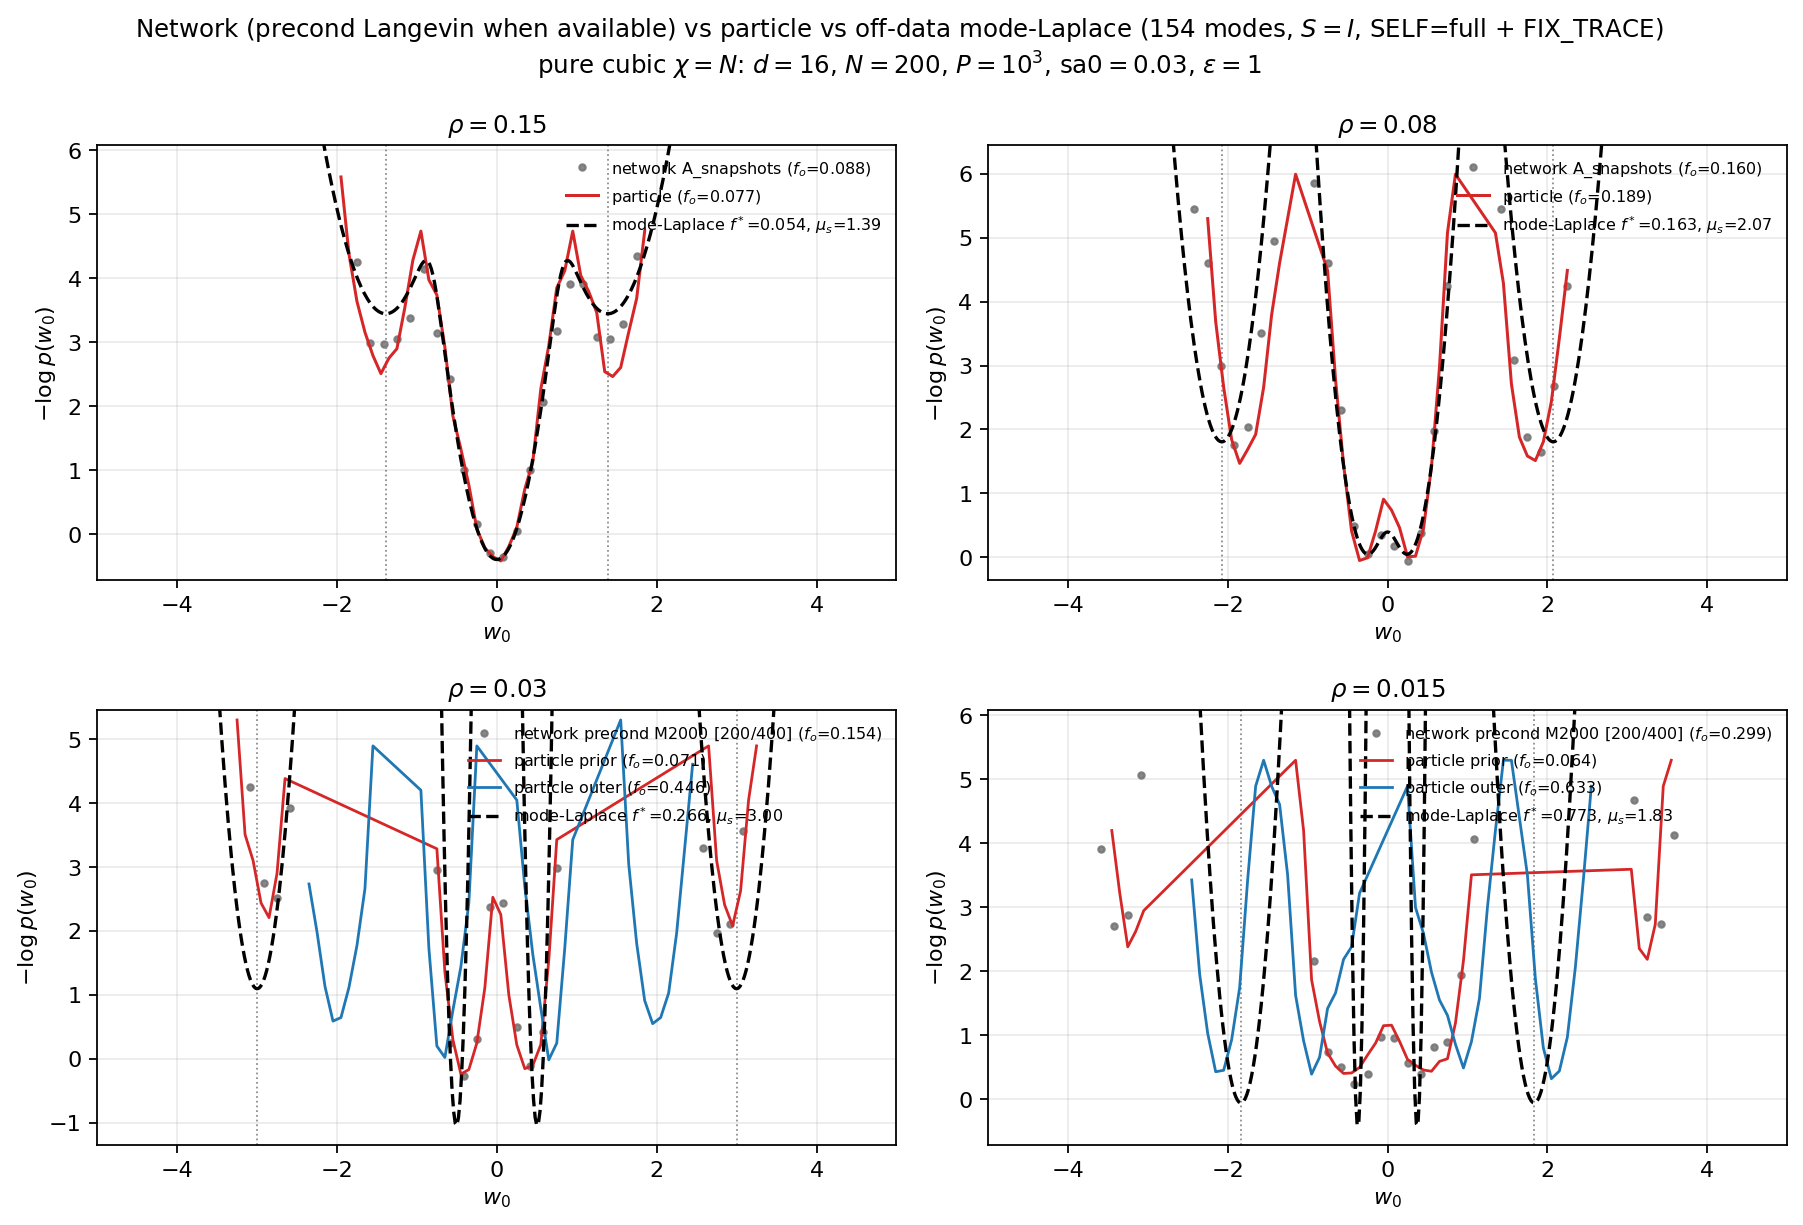
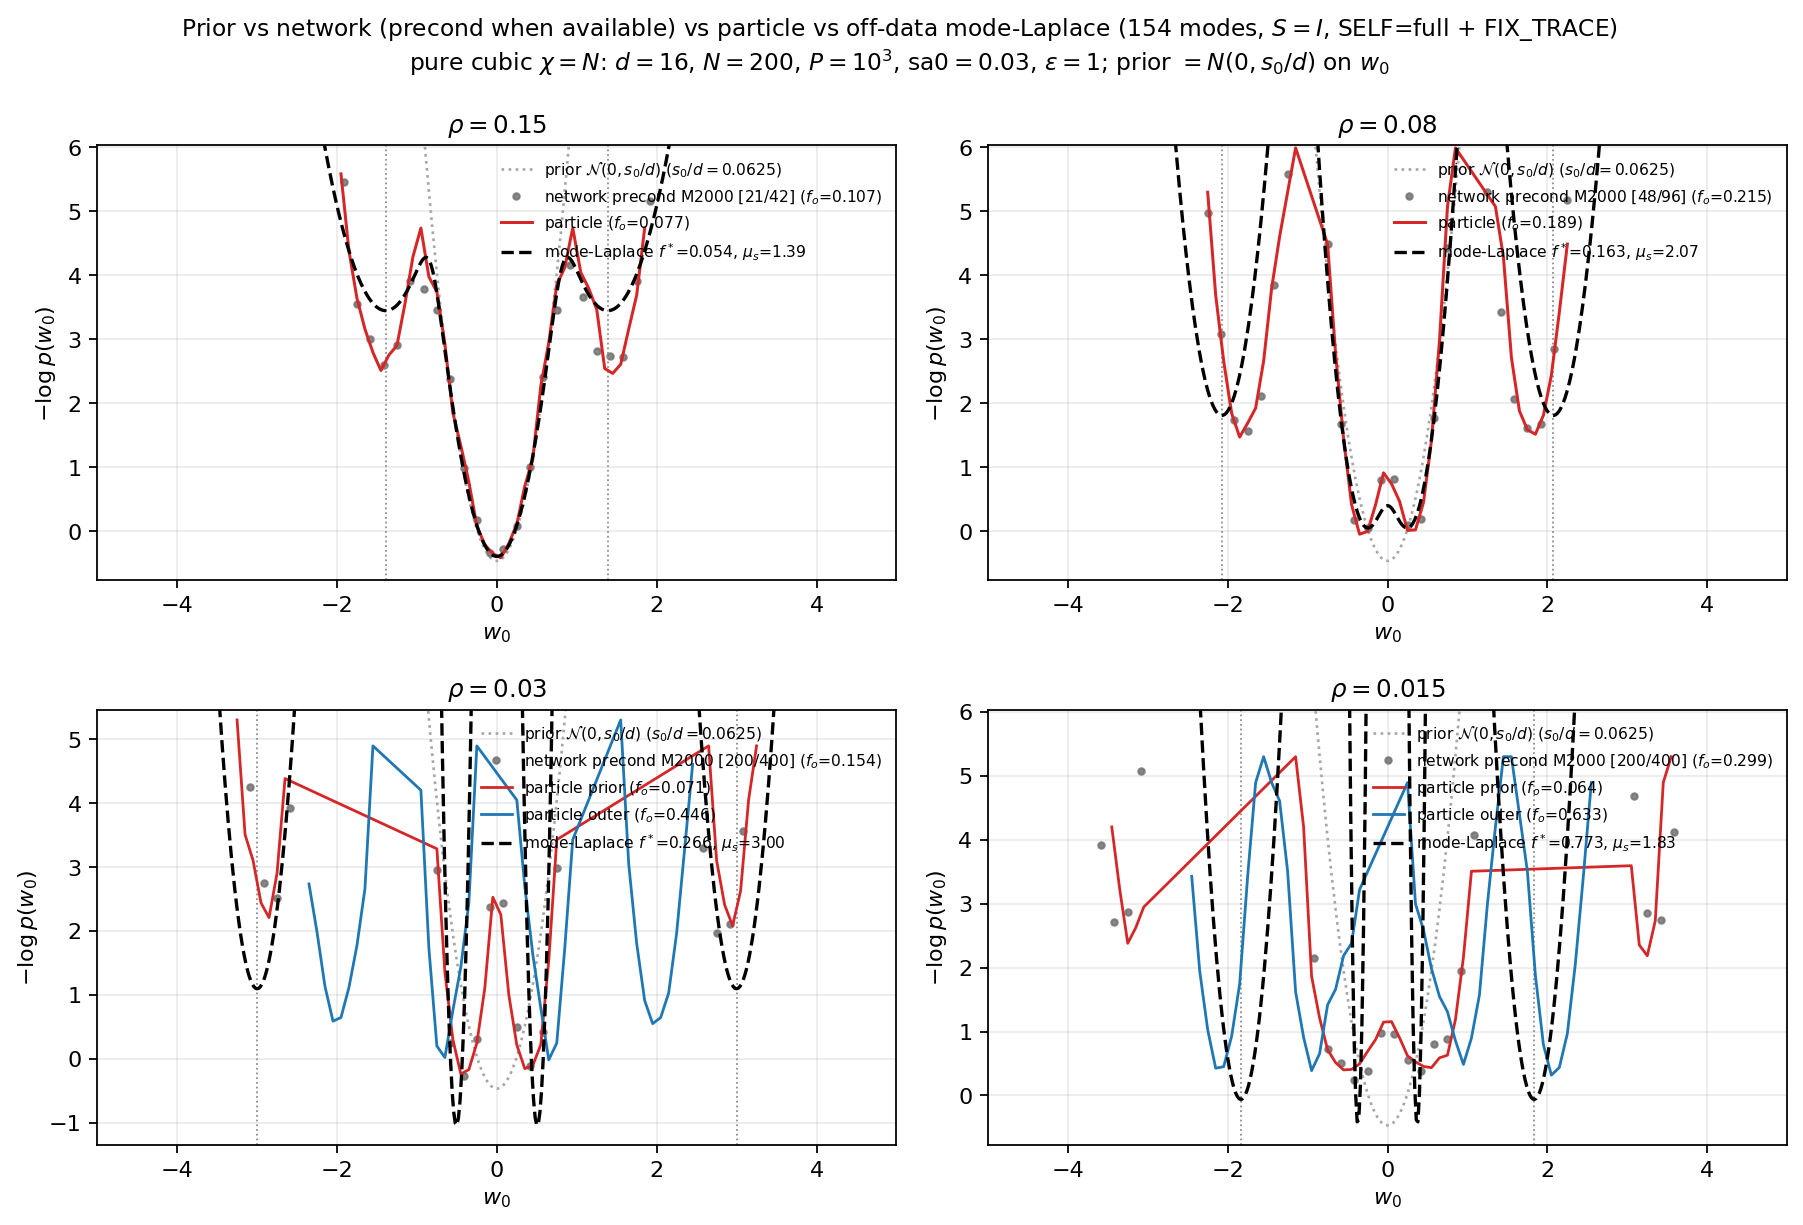
Add marginal prior −log p(w0) to particle–network overlay.
Prior is N(0, s0/d) on the teacher coordinate (σ²=s0/d from isotropic W0);
−log p = w0²/(2σ²) + ½ log(2πσ²), same absolute density gauge as the histograms.

diff --git a/milestones/fcn2_erf_hidden_kernel/plot_particle_vs_mode_laplace.py b/milestones/fcn2_erf_hidden_kernel/plot_particle_vs_mode_laplace.py
@@ -1,10 +1,15 @@
 #!/usr/bin/env python3
-"""Three-way −log p overlay: network, particle theory, mode-Laplace.
+"""−log p overlay: prior, network, particle theory, mode-Laplace.
 
 Particle caches: action_h0_activation_plots/PureCubicChiNRhoRay/particle_theory/
 Laplace caches:  action_h0_activation_plots/PureCubicChiN/mode_laplace_scfrac/
 Network: second half of precond Langevin (M2000 > M200) when present, else
 particle npz w_net (A_snapshots 2nd half).
+
+Prior action: marginal Gaussian on the teacher coordinate,
+  w0 ~ N(0, σ²) with σ² = s0/d  (isotropic W0 prior, variance s0/d per coord)
+  -log p(w0) = w0²/(2σ²) + ½ log(2πσ²)
+same absolute −log-density gauge as the histograms / Laplace dens.
 
 Usage:
   python plot_particle_vs_mode_laplace.py
@@ -24,6 +29,7 @@ PRECOND = HERE / "action_h0_activation_plots/PureCubicChiNRhoRay/precond_langevi
 LAPLACE = HERE / "action_h0_activation_plots/PureCubicChiN/mode_laplace_scfrac"
 RHOS = (0.15, 0.08, 0.03, 0.015)
 W_CUT = 0.6
+D_DEFAULT, S0_DEFAULT = 16, 1.0
 
 
 def tag(rho: float) -> str:
@@ -38,6 +44,12 @@ def dens_nlogp(w0: np.ndarray, wmax: float, bins: int, min_count: int = 2):
     xc = 0.5 * (e[1:] + e[:-1])
     ok = counts >= min_count
     return xc[ok], -np.log(dens[ok] + 1e-300)
+
+
+def prior_nlogp(w: np.ndarray, *, d: float = D_DEFAULT, s0: float = S0_DEFAULT) -> np.ndarray:
+    """−log of the marginal prior density on the teacher coordinate w0."""
+    sig2 = s0 / d
+    return 0.5 * (w * w) / sig2 + 0.5 * np.log(2.0 * np.pi * sig2)
 
 
 def load_network_w0(rho: float):
@@ -70,6 +82,8 @@ def main():
     ap.add_argument("--out", type=Path, default=None)
     ap.add_argument("--wmax", type=float, default=5.0)
     ap.add_argument("--bins", type=int, default=100)
+    ap.add_argument("--d", type=float, default=D_DEFAULT)
+    ap.add_argument("--s0", type=float, default=S0_DEFAULT)
     args = ap.parse_args()
 
     out = args.out or (args.particle / "particle_theory_network_overlay.png")
@@ -82,6 +96,19 @@ def main():
         x = np.asarray(th["x"], float)
         nlogp = np.asarray(th["nlogp"], float)
         win = np.abs(x) <= args.wmax
+
+        # isotropic W0 prior → marginal N(0, s0/d) on teacher axis
+        x_pri = np.linspace(-args.wmax, args.wmax, 401)
+        nl_pri = prior_nlogp(x_pri, d=args.d, s0=args.s0)
+        ax.plot(
+            x_pri,
+            nl_pri,
+            color="0.65",
+            lw=1.2,
+            ls=":",
+            label=rf"prior $\mathcal{{N}}(0,s_0/d)$ ($s_0/d={args.s0/args.d:g}$)",
+            zorder=1,
+        )
 
         w_net, src = load_network_w0(rho)
         if w_net is None:
@@ -130,21 +157,22 @@ def main():
         ax.axvline(mu_s, color="0.55", ls=":", lw=0.8)
         ax.axvline(-mu_s, color="0.55", ls=":", lw=0.8)
 
-        ymin = min(float(np.nanmin(nlogp[win])), float(nl_n.min()), *ymins)
+        ymin = min(float(np.nanmin(nlogp[win])), float(nl_n.min()), float(nl_pri.min()), *ymins)
         ax.set_xlim(-args.wmax, args.wmax)
         ax.set_ylim(ymin - 0.3, ymin + 6.5)
         ax.set_title(rf"$\rho={rho:g}$", fontsize=11)
         ax.set_xlabel(r"$w_0$")
         ax.set_ylabel(r"$-\log p(w_0)$")
         ax.grid(True, alpha=0.25)
-        ax.legend(fontsize=7.2, frameon=False, loc="upper right")
+        ax.legend(fontsize=7.0, frameon=False, loc="upper right")
 
     fig.suptitle(
-        r"Network (precond Langevin when available) vs particle vs off-data mode-Laplace"
+        r"Prior vs network (precond when available) vs particle vs off-data mode-Laplace"
         r" (154 modes, $S=I$, SELF=full + FIX_TRACE)"
         "\n"
-        r"pure cubic $\chi=N$: $d=16$, $N=200$, $P=10^3$, $\mathrm{sa0}=0.03$, $\varepsilon=1$",
-        fontsize=11,
+        r"pure cubic $\chi=N$: $d=16$, $N=200$, $P=10^3$, $\mathrm{sa0}=0.03$, $\varepsilon=1$"
+        r"; prior $=N(0,s_0/d)$ on $w_0$",
+        fontsize=10.5,
     )
     fig.tight_layout()
     fig.savefig(out, dpi=160, bbox_inches="tight")
